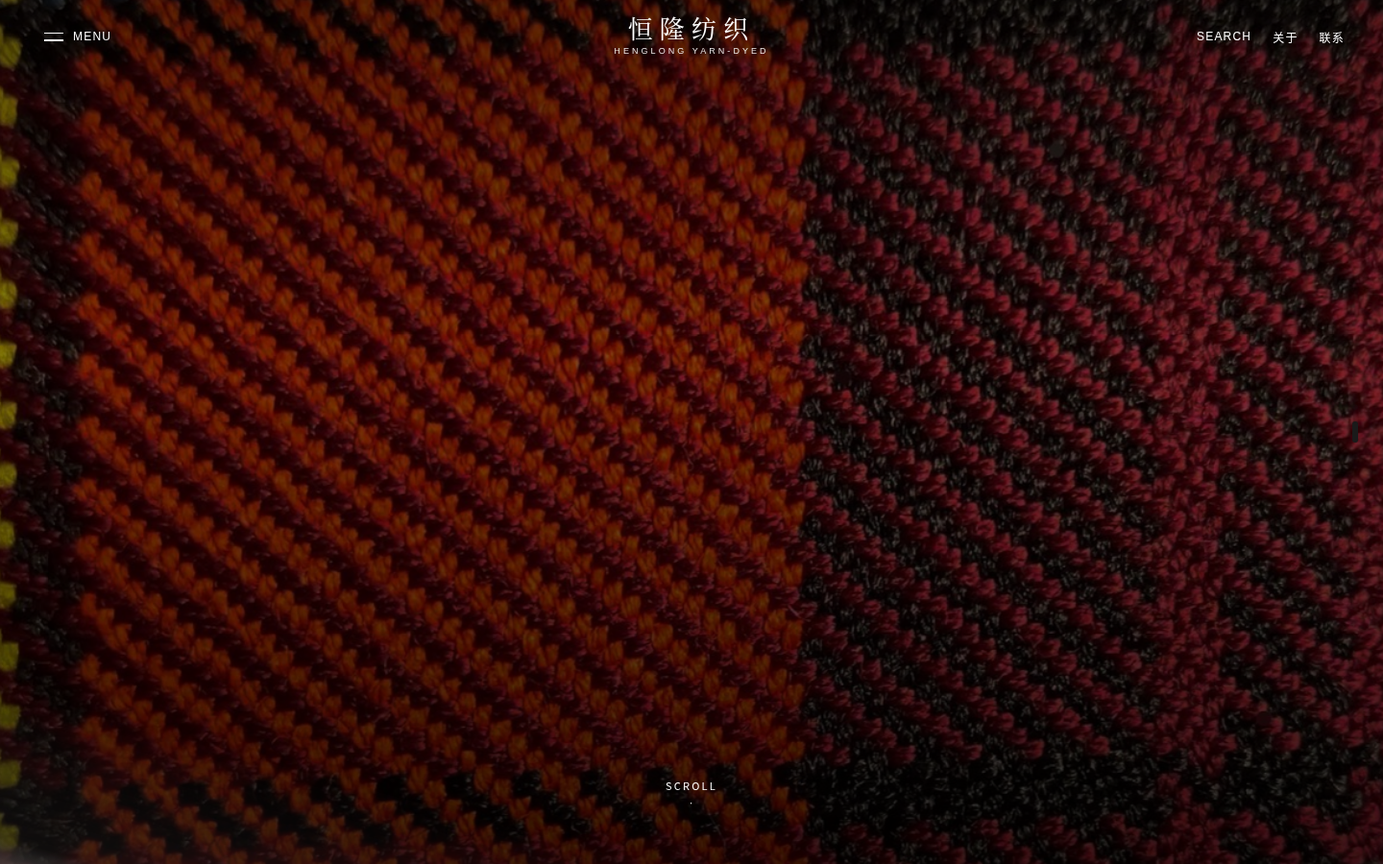
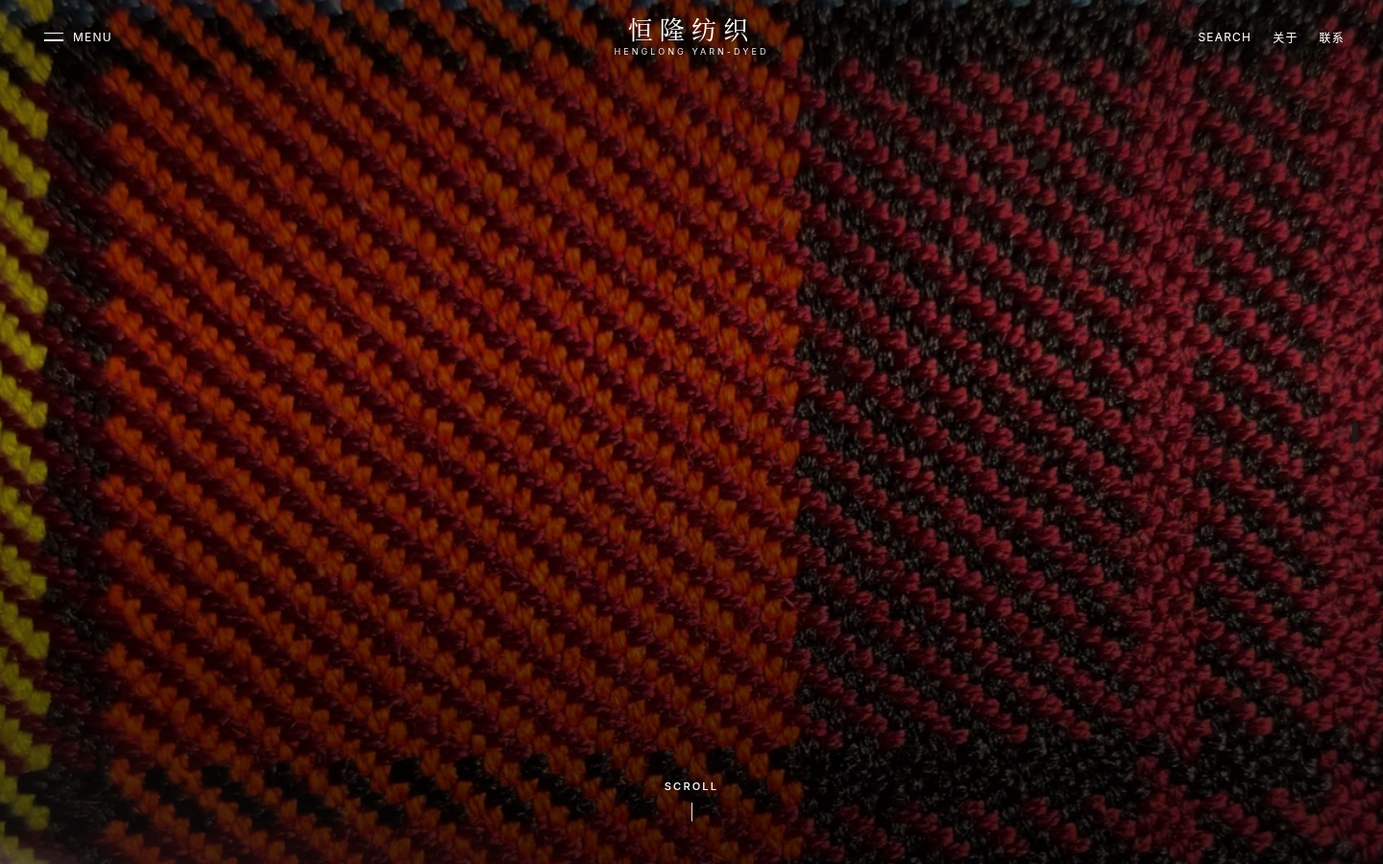
Polish home scroll-stage v27 vs Etro Textiles effect fidelity
Cross-reactive giant text-shadow, wider soft wipe feather, taller punch
corridor, softer spring ω≈1.3/0.95, 2800vh pin.

diff --git a/frame-cards.html b/frame-cards.html
@@ -3,8 +3,8 @@
 <meta charset="utf-8"/><meta name="viewport" content="width=device-width,initial-scale=1"/>
 <title>Stage frame · cards</title>
 <link href="https://fonts.googleapis.com/css2?family=Bodoni+Moda:opsz,wght@6..96,400;6..96,500&family=Inter:wght@300;400;500&display=swap" rel="stylesheet"/>
-<link rel="stylesheet" href="css/style.css?v=26"/>
-<link rel="stylesheet" href="css/effects.css?v=26"/>
+<link rel="stylesheet" href="css/style.css?v=27"/>
+<link rel="stylesheet" href="css/effects.css?v=27"/>
 <style>
   body{margin:0;overflow:hidden;background:#F4F2EF}
   .site-header{position:fixed}
@@ -23,12 +23,12 @@
   <div class="header-right"><a href="products.html">Search</a><a href="about.html">关于</a><a href="contact.html">联系</a></div>
 </header>
 
-<section class="stage" data-stage data-phase="2" style="--p0:1;--hp:1;--hp2:1;--hw:1;--hc:1;--fp:0.42;--sp:0.06;--gs:0.9;--hold:0;--pop:0;--cross:0.95;--scrub:0;--depth:0.44;--ps:0.57;--p:0.57">
+<section class="stage" data-stage data-phase="2" style="--p0:1;--hp:1;--hp2:1;--hw:1;--hc:1;--fp:0.4;--sp:0.04;--gs:0.91;--hold:0;--pop:0;--cross:0.96;--scrub:0;--depth:0.42;--ps:0.56;--p:0.56">
   <div class="stage-pin">
     <div class="stage-cream" aria-hidden="true"></div>
     <div class="stage-giant" aria-hidden="true"><span class="g1">探索</span><span class="g2">新面料</span></div>
     <div class="stage-veil" aria-hidden="true"></div>
-    <div class="stage-floats"><div class="track"><a class="float-card" data-row="0" href="products.html" style="--row:0;--mx:0px;--r:-30deg;--t:1vh;--d:0;--bob:12;--rowy:114.5;--lean:-23.2deg;--shx:16.7;--zi:52;--lift:28;--fs:1.18;--z:64px;--ry:-22deg;--rx:-9;--enter:1;--vis:1;--tilt:-12deg;--spin:0deg;--prox:0.76;--punch:0.62;opacity:1"><div class="fc-img"><img src="images/web/hl-01.jpg" alt="格伦格纹"/></div><div class="fc-label"><strong>格伦格纹</strong><span>色织条格</span></div></a><a class="float-card" data-row="1" href="products.html" style="--row:1;--mx:32px;--r:30deg;--t:60vh;--d:1;--bob:-10;--rowy:-122.6;--lean:25.3deg;--shx:-18.4;--zi:60;--lift:35;--fs:1.18;--z:82px;--ry:22deg;--rx:-11;--enter:1;--vis:1;--tilt:12deg;--spin:0deg;--prox:0.83;--punch:0.74;opacity:1"><div class="fc-img"><img src="images/web/hl-02.jpg" alt="苏格兰纹"/></div><div class="fc-label"><strong>苏格兰纹</strong><span>格纹色织</span></div></a><a class="float-card" data-row="0" href="products.html" style="--row:0;--mx:-22px;--r:-29deg;--t:5vh;--d:2;--bob:16;--rowy:130.8;--lean:-27.5deg;--shx:20.0;--zi:63;--lift:42;--fs:1.18;--z:100px;--ry:-22deg;--rx:-9;--enter:1;--vis:1;--tilt:-12deg;--spin:0deg;--prox:0.90;--punch:0.86;opacity:1"><div class="fc-img"><img src="images/web/hl-05.jpg" alt="衬衫条纹"/></div><div class="fc-label"><strong>衬衫条纹</strong><span>衬衫向</span></div></a><a class="float-card" data-row="1" href="products.html" style="--row:1;--mx:40px;--r:31deg;--t:58vh;--d:3;--bob:-8;--rowy:-114.5;--lean:23.2deg;--shx:-16.7;--zi:54;--lift:28;--fs:1.18;--z:64px;--ry:22deg;--rx:-11;--enter:1;--vis:1;--tilt:12deg;--spin:0deg;--prox:0.76;--punch:0.62;opacity:1"><div class="fc-img"><img src="images/web/mosaic-1.jpg" alt="多色格"/></div><div class="fc-label"><strong>多色格</strong><span>色织格纹</span></div></a><a class="float-card" data-row="0" href="products.html" style="--row:0;--mx:-14px;--r:-30deg;--t:4vh;--d:4;--bob:11;--rowy:122.6;--lean:-25.3deg;--shx:18.4;--zi:58;--lift:35;--fs:1.18;--z:82px;--ry:-22deg;--rx:-9;--enter:1;--vis:1;--tilt:-12deg;--spin:0deg;--prox:0.83;--punch:0.74;opacity:1"><div class="fc-img"><img src="images/web/hl-04.jpg" alt="岩灰素织"/></div><div class="fc-label"><strong>岩灰素织</strong><span>素色色织</span></div></a><a class="float-card" data-row="1" href="products.html" style="--row:1;--mx:46px;--r:29deg;--t:59vh;--d:5;--bob:-15;--rowy:-130.8;--lean:27.5deg;--shx:-20.0;--zi:65;--lift:42;--fs:1.18;--z:100px;--ry:22deg;--rx:-11;--enter:1;--vis:1;--tilt:12deg;--spin:0deg;--prox:0.90;--punch:0.86;opacity:1"><div class="fc-img"><img src="images/web/hl-07.jpg" alt="暖调格"/></div><div class="fc-label"><strong>暖调格</strong><span>家纺格调</span></div></a><a class="float-card" data-row="0" href="products.html" style="--row:0;--mx:-26px;--r:-30deg;--t:2vh;--d:6;--bob:9;--rowy:114.5;--lean:-23.2deg;--shx:16.7;--zi:52;--lift:28;--fs:1.18;--z:64px;--ry:-22deg;--rx:-9;--enter:1;--vis:1;--tilt:-12deg;--spin:0deg;--prox:0.76;--punch:0.62;opacity:1"><div class="fc-img"><img src="images/web/hl-06.jpg" alt="斜纹条格"/></div><div class="fc-label"><strong>斜纹条格</strong><span>斜纹组织</span></div></a><a class="float-card" data-row="1" href="products.html" style="--row:1;--mx:34px;--r:32deg;--t:62vh;--d:7;--bob:-13;--rowy:-122.6;--lean:25.3deg;--shx:-18.4;--zi:60;--lift:35;--fs:1.18;--z:82px;--ry:22deg;--rx:-11;--enter:1;--vis:1;--tilt:12deg;--spin:0deg;--prox:0.83;--punch:0.74;opacity:1"><div class="fc-img"><img src="images/web/hl-08.jpg" alt="来样肌理"/></div><div class="fc-label"><strong>来样肌理</strong><span>来样开发</span></div></a><a class="float-card" data-row="0" href="products.html" style="--row:0;--mx:-10px;--r:-30deg;--t:3vh;--d:8;--bob:14;--rowy:130.8;--lean:-27.5deg;--shx:20.0;--zi:63;--lift:42;--fs:1.18;--z:100px;--ry:-22deg;--rx:-9;--enter:1;--vis:1;--tilt:-12deg;--spin:0deg;--prox:0.90;--punch:0.86;opacity:1"><div class="fc-img"><img src="images/web/hl-03.jpg" alt="细密条格"/></div><div class="fc-label"><strong>细密条格</strong><span>色织细条</span></div></a><a class="float-card" data-row="1" href="products.html" style="--row:1;--mx:28px;--r:28deg;--t:61vh;--d:9;--bob:-9;--rowy:-114.5;--lean:23.2deg;--shx:-16.7;--zi:54;--lift:28;--fs:1.18;--z:64px;--ry:22deg;--rx:-11;--enter:1;--vis:1;--tilt:12deg;--spin:0deg;--prox:0.76;--punch:0.62;opacity:1"><div class="fc-img"><img src="images/web/stripes.jpg" alt="经典条纹"/></div><div class="fc-label"><strong>经典条纹</strong><span>衬衫条纹</span></div></a></div></div>
+    <div class="stage-floats"><div class="track"><a class="float-card" data-row="0" href="products.html" style="--row:0;--mx:0px;--r:-30deg;--t:1vh;--d:0;--bob:12;--rowy:120.1;--lean:-23.5deg;--shx:17.0;--zi:53;--lift:28;--fs:1.19;--z:66px;--ry:-22deg;--rx:-9;--enter:1;--vis:1;--tilt:-12deg;--spin:0deg;--prox:0.77;--punch:0.64;opacity:1"><div class="fc-img"><img src="images/web/hl-01.jpg" alt="格伦格纹"/></div><div class="fc-label"><strong>格伦格纹</strong><span>色织条格</span></div></a><a class="float-card" data-row="1" href="products.html" style="--row:1;--mx:32px;--r:30deg;--t:60vh;--d:1;--bob:-10;--rowy:-128.0;--lean:25.5deg;--shx:-18.5;--zi:60;--lift:35;--fs:1.19;--z:84px;--ry:22deg;--rx:-11;--enter:1;--vis:1;--tilt:12deg;--spin:0deg;--prox:0.84;--punch:0.75;opacity:1"><div class="fc-img"><img src="images/web/hl-02.jpg" alt="苏格兰纹"/></div><div class="fc-label"><strong>苏格兰纹</strong><span>格纹色织</span></div></a><a class="float-card" data-row="0" href="products.html" style="--row:0;--mx:-22px;--r:-29deg;--t:5vh;--d:2;--bob:16;--rowy:135.9;--lean:-27.5deg;--shx:20.0;--zi:63;--lift:42;--fs:1.19;--z:102px;--ry:-22deg;--rx:-9;--enter:1;--vis:1;--tilt:-12deg;--spin:0deg;--prox:0.91;--punch:0.86;opacity:1"><div class="fc-img"><img src="images/web/hl-05.jpg" alt="衬衫条纹"/></div><div class="fc-label"><strong>衬衫条纹</strong><span>衬衫向</span></div></a><a class="float-card" data-row="1" href="products.html" style="--row:1;--mx:40px;--r:31deg;--t:58vh;--d:3;--bob:-8;--rowy:-120.1;--lean:23.5deg;--shx:-17.0;--zi:55;--lift:28;--fs:1.19;--z:66px;--ry:22deg;--rx:-11;--enter:1;--vis:1;--tilt:12deg;--spin:0deg;--prox:0.77;--punch:0.64;opacity:1"><div class="fc-img"><img src="images/web/mosaic-1.jpg" alt="多色格"/></div><div class="fc-label"><strong>多色格</strong><span>色织格纹</span></div></a><a class="float-card" data-row="0" href="products.html" style="--row:0;--mx:-14px;--r:-30deg;--t:4vh;--d:4;--bob:11;--rowy:128.0;--lean:-25.5deg;--shx:18.5;--zi:58;--lift:35;--fs:1.19;--z:84px;--ry:-22deg;--rx:-9;--enter:1;--vis:1;--tilt:-12deg;--spin:0deg;--prox:0.84;--punch:0.75;opacity:1"><div class="fc-img"><img src="images/web/hl-04.jpg" alt="岩灰素织"/></div><div class="fc-label"><strong>岩灰素织</strong><span>素色色织</span></div></a><a class="float-card" data-row="1" href="products.html" style="--row:1;--mx:46px;--r:29deg;--t:59vh;--d:5;--bob:-15;--rowy:-135.9;--lean:27.5deg;--shx:-20.0;--zi:65;--lift:42;--fs:1.19;--z:102px;--ry:22deg;--rx:-11;--enter:1;--vis:1;--tilt:12deg;--spin:0deg;--prox:0.91;--punch:0.86;opacity:1"><div class="fc-img"><img src="images/web/hl-07.jpg" alt="暖调格"/></div><div class="fc-label"><strong>暖调格</strong><span>家纺格调</span></div></a><a class="float-card" data-row="0" href="products.html" style="--row:0;--mx:-26px;--r:-30deg;--t:2vh;--d:6;--bob:9;--rowy:120.1;--lean:-23.5deg;--shx:17.0;--zi:53;--lift:28;--fs:1.19;--z:66px;--ry:-22deg;--rx:-9;--enter:1;--vis:1;--tilt:-12deg;--spin:0deg;--prox:0.77;--punch:0.64;opacity:1"><div class="fc-img"><img src="images/web/hl-06.jpg" alt="斜纹条格"/></div><div class="fc-label"><strong>斜纹条格</strong><span>斜纹组织</span></div></a><a class="float-card" data-row="1" href="products.html" style="--row:1;--mx:34px;--r:32deg;--t:62vh;--d:7;--bob:-13;--rowy:-128.0;--lean:25.5deg;--shx:-18.5;--zi:60;--lift:35;--fs:1.19;--z:84px;--ry:22deg;--rx:-11;--enter:1;--vis:1;--tilt:12deg;--spin:0deg;--prox:0.84;--punch:0.75;opacity:1"><div class="fc-img"><img src="images/web/hl-08.jpg" alt="来样肌理"/></div><div class="fc-label"><strong>来样肌理</strong><span>来样开发</span></div></a><a class="float-card" data-row="0" href="products.html" style="--row:0;--mx:-10px;--r:-30deg;--t:3vh;--d:8;--bob:14;--rowy:135.9;--lean:-27.5deg;--shx:20.0;--zi:63;--lift:42;--fs:1.19;--z:102px;--ry:-22deg;--rx:-9;--enter:1;--vis:1;--tilt:-12deg;--spin:0deg;--prox:0.91;--punch:0.86;opacity:1"><div class="fc-img"><img src="images/web/hl-03.jpg" alt="细密条格"/></div><div class="fc-label"><strong>细密条格</strong><span>色织细条</span></div></a><a class="float-card" data-row="1" href="products.html" style="--row:1;--mx:28px;--r:28deg;--t:61vh;--d:9;--bob:-9;--rowy:-120.1;--lean:23.5deg;--shx:-17.0;--zi:55;--lift:28;--fs:1.19;--z:66px;--ry:22deg;--rx:-11;--enter:1;--vis:1;--tilt:12deg;--spin:0deg;--prox:0.77;--punch:0.64;opacity:1"><div class="fc-img"><img src="images/web/stripes.jpg" alt="经典条纹"/></div><div class="fc-label"><strong>经典条纹</strong><span>衬衫条纹</span></div></a></div></div>
     <div class="stage-hero" style="opacity:0;pointer-events:none"></div>
     <div class="stage-progress"><i></i><i></i><i></i></div>
   </div>
@@ -36,7 +36,7 @@
 <script>
   const track=document.querySelector('.track');
   const dist=Math.max(track.scrollWidth-innerWidth*0.05,1);
-  track.style.transform='translate3d('+(-0.42*dist)+'px,0,0)';
+  track.style.transform='translate3d('+(-0.4*dist)+'px,0,0)';
   document.documentElement.dataset.shotReady='1';
 </script>
 </body></html>

diff --git a/frame-peek.html b/frame-peek.html
@@ -3,8 +3,8 @@
 <meta charset="utf-8"/><meta name="viewport" content="width=device-width,initial-scale=1"/>
 <title>Stage frame · peek</title>
 <link href="https://fonts.googleapis.com/css2?family=Bodoni+Moda:opsz,wght@6..96,400;6..96,500&family=Inter:wght@300;400;500&display=swap" rel="stylesheet"/>
-<link rel="stylesheet" href="css/style.css?v=26"/>
-<link rel="stylesheet" href="css/effects.css?v=26"/>
+<link rel="stylesheet" href="css/style.css?v=27"/>
+<link rel="stylesheet" href="css/effects.css?v=27"/>
 <style>
   body{margin:0;overflow:hidden;background:#F4F2EF}
   .site-header{position:fixed}
@@ -23,12 +23,12 @@
   <div class="header-right"><a href="products.html">Search</a><a href="about.html">关于</a><a href="contact.html">联系</a></div>
 </header>
 
-<section class="stage" data-stage data-phase="2" style="--p0:1;--hp:1;--hp2:1;--hw:1;--hc:1;--fp:0.16;--sp:0;--gs:0.96;--hold:0.35;--pop:0.12;--cross:0.4;--scrub:0;--depth:0.16;--ps:0.58;--p:0.58">
+<section class="stage" data-stage data-phase="2" style="--p0:1;--hp:1;--hp2:1;--hw:1;--hc:1;--fp:0.15;--sp:0;--gs:0.96;--hold:0.38;--pop:0.14;--cross:0.38;--scrub:0;--depth:0.15;--ps:0.59;--p:0.59">
   <div class="stage-pin">
     <div class="stage-cream" aria-hidden="true"></div>
     <div class="stage-giant" aria-hidden="true"><span class="g1">探索</span><span class="g2">新面料</span></div>
     <div class="stage-veil" aria-hidden="true"></div>
-    <div class="stage-floats"><div class="track"><a class="float-card" data-row="0" href="products.html" style="--row:0;--mx:0px;--r:-30deg;--t:1vh;--d:0;--bob:12;--rowy:89.5;--lean:-23.2deg;--shx:16.7;--zi:52;--lift:28;--fs:1.18;--z:64px;--ry:-22deg;--rx:-9;--enter:1;--vis:1;--tilt:-12deg;--spin:0deg;--prox:0.76;--punch:0.62;opacity:1"><div class="fc-img"><img src="images/web/hl-01.jpg" alt="格伦格纹"/></div><div class="fc-label"><strong>格伦格纹</strong><span>色织条格</span></div></a><a class="float-card" data-row="1" href="products.html" style="--row:1;--mx:32px;--r:30deg;--t:60vh;--d:1;--bob:-10;--rowy:-97.7;--lean:25.3deg;--shx:-18.4;--zi:60;--lift:35;--fs:1.18;--z:82px;--ry:22deg;--rx:-11;--enter:1;--vis:1;--tilt:12deg;--spin:0deg;--prox:0.83;--punch:0.74;opacity:1"><div class="fc-img"><img src="images/web/hl-02.jpg" alt="苏格兰纹"/></div><div class="fc-label"><strong>苏格兰纹</strong><span>格纹色织</span></div></a><a class="float-card" data-row="0" href="products.html" style="--row:0;--mx:-22px;--r:-29deg;--t:5vh;--d:2;--bob:16;--rowy:105.8;--lean:-27.5deg;--shx:20.0;--zi:63;--lift:42;--fs:1.18;--z:100px;--ry:-22deg;--rx:-9;--enter:1;--vis:1;--tilt:-12deg;--spin:0deg;--prox:0.90;--punch:0.86;opacity:1"><div class="fc-img"><img src="images/web/hl-05.jpg" alt="衬衫条纹"/></div><div class="fc-label"><strong>衬衫条纹</strong><span>衬衫向</span></div></a><a class="float-card" data-row="1" href="products.html" style="--row:1;--mx:40px;--r:31deg;--t:58vh;--d:3;--bob:-8;--rowy:-89.5;--lean:23.2deg;--shx:-16.7;--zi:54;--lift:28;--fs:1.18;--z:64px;--ry:22deg;--rx:-11;--enter:1;--vis:1;--tilt:12deg;--spin:0deg;--prox:0.76;--punch:0.62;opacity:1"><div class="fc-img"><img src="images/web/mosaic-1.jpg" alt="多色格"/></div><div class="fc-label"><strong>多色格</strong><span>色织格纹</span></div></a><a class="float-card" data-row="0" href="products.html" style="--row:0;--mx:-14px;--r:-30deg;--t:4vh;--d:4;--bob:11;--rowy:97.7;--lean:-25.3deg;--shx:18.4;--zi:58;--lift:35;--fs:1.18;--z:82px;--ry:-22deg;--rx:-9;--enter:1;--vis:1;--tilt:-12deg;--spin:0deg;--prox:0.83;--punch:0.74;opacity:1"><div class="fc-img"><img src="images/web/hl-04.jpg" alt="岩灰素织"/></div><div class="fc-label"><strong>岩灰素织</strong><span>素色色织</span></div></a><a class="float-card" data-row="1" href="products.html" style="--row:1;--mx:46px;--r:29deg;--t:59vh;--d:5;--bob:-15;--rowy:-105.8;--lean:27.5deg;--shx:-20.0;--zi:65;--lift:42;--fs:1.18;--z:100px;--ry:22deg;--rx:-11;--enter:1;--vis:1;--tilt:12deg;--spin:0deg;--prox:0.90;--punch:0.86;opacity:1"><div class="fc-img"><img src="images/web/hl-07.jpg" alt="暖调格"/></div><div class="fc-label"><strong>暖调格</strong><span>家纺格调</span></div></a><a class="float-card" data-row="0" href="products.html" style="--row:0;--mx:-26px;--r:-30deg;--t:2vh;--d:6;--bob:9;--rowy:89.5;--lean:-23.2deg;--shx:16.7;--zi:52;--lift:28;--fs:1.18;--z:64px;--ry:-22deg;--rx:-9;--enter:1;--vis:1;--tilt:-12deg;--spin:0deg;--prox:0.76;--punch:0.62;opacity:1"><div class="fc-img"><img src="images/web/hl-06.jpg" alt="斜纹条格"/></div><div class="fc-label"><strong>斜纹条格</strong><span>斜纹组织</span></div></a><a class="float-card" data-row="1" href="products.html" style="--row:1;--mx:34px;--r:32deg;--t:62vh;--d:7;--bob:-13;--rowy:-97.7;--lean:25.3deg;--shx:-18.4;--zi:60;--lift:35;--fs:1.18;--z:82px;--ry:22deg;--rx:-11;--enter:1;--vis:1;--tilt:12deg;--spin:0deg;--prox:0.83;--punch:0.74;opacity:1"><div class="fc-img"><img src="images/web/hl-08.jpg" alt="来样肌理"/></div><div class="fc-label"><strong>来样肌理</strong><span>来样开发</span></div></a><a class="float-card" data-row="0" href="products.html" style="--row:0;--mx:-10px;--r:-30deg;--t:3vh;--d:8;--bob:14;--rowy:105.8;--lean:-27.5deg;--shx:20.0;--zi:63;--lift:42;--fs:1.18;--z:100px;--ry:-22deg;--rx:-9;--enter:1;--vis:1;--tilt:-12deg;--spin:0deg;--prox:0.90;--punch:0.86;opacity:1"><div class="fc-img"><img src="images/web/hl-03.jpg" alt="细密条格"/></div><div class="fc-label"><strong>细密条格</strong><span>色织细条</span></div></a><a class="float-card" data-row="1" href="products.html" style="--row:1;--mx:28px;--r:28deg;--t:61vh;--d:9;--bob:-9;--rowy:-89.5;--lean:23.2deg;--shx:-16.7;--zi:54;--lift:28;--fs:1.18;--z:64px;--ry:22deg;--rx:-11;--enter:1;--vis:1;--tilt:12deg;--spin:0deg;--prox:0.76;--punch:0.62;opacity:1"><div class="fc-img"><img src="images/web/stripes.jpg" alt="经典条纹"/></div><div class="fc-label"><strong>经典条纹</strong><span>衬衫条纹</span></div></a></div></div>
+    <div class="stage-floats"><div class="track"><a class="float-card" data-row="0" href="products.html" style="--row:0;--mx:0px;--r:-30deg;--t:1vh;--d:0;--bob:12;--rowy:95.1;--lean:-23.5deg;--shx:17.0;--zi:53;--lift:28;--fs:1.19;--z:66px;--ry:-22deg;--rx:-9;--enter:1;--vis:1;--tilt:-12deg;--spin:0deg;--prox:0.77;--punch:0.64;opacity:1"><div class="fc-img"><img src="images/web/hl-01.jpg" alt="格伦格纹"/></div><div class="fc-label"><strong>格伦格纹</strong><span>色织条格</span></div></a><a class="float-card" data-row="1" href="products.html" style="--row:1;--mx:32px;--r:30deg;--t:60vh;--d:1;--bob:-10;--rowy:-103.0;--lean:25.5deg;--shx:-18.5;--zi:60;--lift:35;--fs:1.19;--z:84px;--ry:22deg;--rx:-11;--enter:1;--vis:1;--tilt:12deg;--spin:0deg;--prox:0.84;--punch:0.75;opacity:1"><div class="fc-img"><img src="images/web/hl-02.jpg" alt="苏格兰纹"/></div><div class="fc-label"><strong>苏格兰纹</strong><span>格纹色织</span></div></a><a class="float-card" data-row="0" href="products.html" style="--row:0;--mx:-22px;--r:-29deg;--t:5vh;--d:2;--bob:16;--rowy:110.9;--lean:-27.5deg;--shx:20.0;--zi:63;--lift:42;--fs:1.19;--z:102px;--ry:-22deg;--rx:-9;--enter:1;--vis:1;--tilt:-12deg;--spin:0deg;--prox:0.91;--punch:0.86;opacity:1"><div class="fc-img"><img src="images/web/hl-05.jpg" alt="衬衫条纹"/></div><div class="fc-label"><strong>衬衫条纹</strong><span>衬衫向</span></div></a><a class="float-card" data-row="1" href="products.html" style="--row:1;--mx:40px;--r:31deg;--t:58vh;--d:3;--bob:-8;--rowy:-95.1;--lean:23.5deg;--shx:-17.0;--zi:55;--lift:28;--fs:1.19;--z:66px;--ry:22deg;--rx:-11;--enter:1;--vis:1;--tilt:12deg;--spin:0deg;--prox:0.77;--punch:0.64;opacity:1"><div class="fc-img"><img src="images/web/mosaic-1.jpg" alt="多色格"/></div><div class="fc-label"><strong>多色格</strong><span>色织格纹</span></div></a><a class="float-card" data-row="0" href="products.html" style="--row:0;--mx:-14px;--r:-30deg;--t:4vh;--d:4;--bob:11;--rowy:103.0;--lean:-25.5deg;--shx:18.5;--zi:58;--lift:35;--fs:1.19;--z:84px;--ry:-22deg;--rx:-9;--enter:1;--vis:1;--tilt:-12deg;--spin:0deg;--prox:0.84;--punch:0.75;opacity:1"><div class="fc-img"><img src="images/web/hl-04.jpg" alt="岩灰素织"/></div><div class="fc-label"><strong>岩灰素织</strong><span>素色色织</span></div></a><a class="float-card" data-row="1" href="products.html" style="--row:1;--mx:46px;--r:29deg;--t:59vh;--d:5;--bob:-15;--rowy:-110.9;--lean:27.5deg;--shx:-20.0;--zi:65;--lift:42;--fs:1.19;--z:102px;--ry:22deg;--rx:-11;--enter:1;--vis:1;--tilt:12deg;--spin:0deg;--prox:0.91;--punch:0.86;opacity:1"><div class="fc-img"><img src="images/web/hl-07.jpg" alt="暖调格"/></div><div class="fc-label"><strong>暖调格</strong><span>家纺格调</span></div></a><a class="float-card" data-row="0" href="products.html" style="--row:0;--mx:-26px;--r:-30deg;--t:2vh;--d:6;--bob:9;--rowy:95.1;--lean:-23.5deg;--shx:17.0;--zi:53;--lift:28;--fs:1.19;--z:66px;--ry:-22deg;--rx:-9;--enter:1;--vis:1;--tilt:-12deg;--spin:0deg;--prox:0.77;--punch:0.64;opacity:1"><div class="fc-img"><img src="images/web/hl-06.jpg" alt="斜纹条格"/></div><div class="fc-label"><strong>斜纹条格</strong><span>斜纹组织</span></div></a><a class="float-card" data-row="1" href="products.html" style="--row:1;--mx:34px;--r:32deg;--t:62vh;--d:7;--bob:-13;--rowy:-103.0;--lean:25.5deg;--shx:-18.5;--zi:60;--lift:35;--fs:1.19;--z:84px;--ry:22deg;--rx:-11;--enter:1;--vis:1;--tilt:12deg;--spin:0deg;--prox:0.84;--punch:0.75;opacity:1"><div class="fc-img"><img src="images/web/hl-08.jpg" alt="来样肌理"/></div><div class="fc-label"><strong>来样肌理</strong><span>来样开发</span></div></a><a class="float-card" data-row="0" href="products.html" style="--row:0;--mx:-10px;--r:-30deg;--t:3vh;--d:8;--bob:14;--rowy:110.9;--lean:-27.5deg;--shx:20.0;--zi:63;--lift:42;--fs:1.19;--z:102px;--ry:-22deg;--rx:-9;--enter:1;--vis:1;--tilt:-12deg;--spin:0deg;--prox:0.91;--punch:0.86;opacity:1"><div class="fc-img"><img src="images/web/hl-03.jpg" alt="细密条格"/></div><div class="fc-label"><strong>细密条格</strong><span>色织细条</span></div></a><a class="float-card" data-row="1" href="products.html" style="--row:1;--mx:28px;--r:28deg;--t:61vh;--d:9;--bob:-9;--rowy:-95.1;--lean:23.5deg;--shx:-17.0;--zi:55;--lift:28;--fs:1.19;--z:66px;--ry:22deg;--rx:-11;--enter:1;--vis:1;--tilt:12deg;--spin:0deg;--prox:0.77;--punch:0.64;opacity:1"><div class="fc-img"><img src="images/web/stripes.jpg" alt="经典条纹"/></div><div class="fc-label"><strong>经典条纹</strong><span>衬衫条纹</span></div></a></div></div>
     <div class="stage-hero" style="opacity:0;pointer-events:none"></div>
     <div class="stage-progress"><i></i><i></i><i></i></div>
   </div>
@@ -36,7 +36,7 @@
 <script>
   const track=document.querySelector('.track');
   const dist=Math.max(track.scrollWidth-innerWidth*0.05,1);
-  track.style.transform='translate3d('+(-0.16*dist)+'px,0,0)';
+  track.style.transform='translate3d('+(-0.15*dist)+'px,0,0)';
   document.documentElement.dataset.shotReady='1';
 </script>
 </body></html>

diff --git a/js/effects.js b/js/effects.js
@@ -61,9 +61,9 @@
 
   /* Progress map (of stage scroll 0..1):
      0–0.04  hero settle (p0)
-     0.02–0.29 soft wipe (--hw/--hc) + giant rise (hp); g2 lags
-     0.29–0.58 type hold / breath / pop settle
-     0.55–1.0  cards scrub; type split lags via sp
+     0.02–0.30 soft wipe (--hw/--hc) + giant rise (hp); g2 lags
+     0.30–0.60 type hold / breath / pop settle
+     0.56–1.0  cards scrub; type split lags via sp
   */
   function targets(){
     const y=scrollY,vh=innerHeight;
@@ -71,14 +71,14 @@
     if(stage && !reduce){
       const top=stage.offsetTop,len=Math.max(1,stage.offsetHeight-vh);
       p=clamp((y-top)/len);
-      p0=easeOut(clamp(p/0.016));
-      hp=easeInOut(clamp((p-0.005)/0.28));
+      p0=easeOut(clamp(p/0.015));
+      hp=easeInOut(clamp((p-0.004)/0.29));
       /* longer hold; crawl then glide; type split waits for denser cross */
-      const raw=clamp((p-0.55)/0.45);
-      fp=Math.pow(easeInOut(raw), 0.64);
-      sp=Math.pow(clamp((fp-0.44)/0.56), 1.6);
-      gs=1-fp*0.24;
-      phase=p<0.03?'0':(p<0.58?'1':'2');
+      const raw=clamp((p-0.56)/0.44);
+      fp=Math.pow(easeInOut(raw), 0.62);
+      sp=Math.pow(clamp((fp-0.46)/0.54), 1.62);
+      gs=1-fp*0.23;
+      phase=p<0.03?'0':(p<0.60?'1':'2');
       onHero=hp<0.56;
     }
     return {y,vh,p0,hp,fp,sp,gs,phase,onHero,p};
@@ -103,28 +103,28 @@
       const speed=Math.min(2.8, Math.abs(dy)/16);
       vel=lerp(vel,speed,hard?1:expAlpha(5.8,dt));
       spin=lerp(spin, Math.max(-1.7, Math.min(1.7, dy/30)), hard?1:expAlpha(4.2,dt));
-      coast=hard?0:lerp(coast + dy*0.0005, 0, expAlpha(0.62,dt));
-      const boost=1+vel*0.15;
-      const look=hard?0:Math.max(-0.12, Math.min(0.12, (dy/400)*0.065));
-      smooth.p0=lerp(smooth.p0,t.p0,hard?1:expAlpha(4.9*boost,dt));
+      coast=hard?0:lerp(coast + dy*0.00055, 0, expAlpha(0.55,dt));
+      const boost=1+vel*0.14;
+      const look=hard?0:Math.max(-0.13, Math.min(0.13, (dy/380)*0.07));
+      smooth.p0=lerp(smooth.p0,t.p0,hard?1:expAlpha(4.6*boost,dt));
       /* dual-stage wipe; --hw leads type; --hc lags for layered cream */
-      smooth.hpMid=lerp(smooth.hpMid,t.hp,hard?1:expAlpha(3.5*boost,dt));
-      smooth.hp=lerp(smooth.hp,smooth.hpMid,hard?1:expAlpha(2.6*boost,dt));
-      smooth.hw=lerp(smooth.hw, clamp(t.hp*1.04), hard?1:expAlpha(3.9*boost,dt));
-      smooth.hc=lerp(smooth.hc, smooth.hw*0.94, hard?1:expAlpha(2.4*boost,dt));
+      smooth.hpMid=lerp(smooth.hpMid,t.hp,hard?1:expAlpha(3.3*boost,dt));
+      smooth.hp=lerp(smooth.hp,smooth.hpMid,hard?1:expAlpha(2.45*boost,dt));
+      smooth.hw=lerp(smooth.hw, clamp(t.hp*1.035), hard?1:expAlpha(3.7*boost,dt));
+      smooth.hc=lerp(smooth.hc, smooth.hw*0.93, hard?1:expAlpha(2.2*boost,dt));
       /* second line lags first for staggered reveal */
-      smooth.hp2=lerp(smooth.hp2, clamp((t.hp-0.28)/0.72), hard?1:expAlpha(1.9*boost,dt));
+      smooth.hp2=lerp(smooth.hp2, clamp((t.hp-0.3)/0.7), hard?1:expAlpha(1.75*boost,dt));
       /* look-ahead creamier spring scrub (softer ω) + display lerp */
       if(hard){spring.fp=t.fp;spring.v=0;spring.sp=t.sp;spring.sv=0;smooth.fpVis=t.fp;smooth.hc=t.hp;}
       else{
-        const s1=springStep(spring.fp, spring.v, clamp(t.fp + coast + look), dt, 1.4*boost);
+        const s1=springStep(spring.fp, spring.v, clamp(t.fp + coast + look), dt, 1.3*boost);
         spring.fp=s1.x; spring.v=s1.v;
-        const s2=springStep(spring.sp, spring.sv, t.sp, dt, 1.05*boost);
+        const s2=springStep(spring.sp, spring.sv, t.sp, dt, 0.95*boost);
         spring.sp=s2.x; spring.sv=s2.v;
       }
       smooth.fp=spring.fp;
       smooth.sp=spring.sp;
-      smooth.fpVis=hard?spring.fp:lerp(smooth.fpVis, spring.fp, expAlpha(4.4*boost,dt));
+      smooth.fpVis=hard?spring.fp:lerp(smooth.fpVis, spring.fp, expAlpha(4.0*boost,dt));
       smooth.gs=lerp(smooth.gs,t.gs,hard?1:expAlpha(4.4,dt));
       smooth.ps=lerp(smooth.ps,t.p||0,hard?1:expAlpha(3.8*boost,dt));
       const impulse=hard?0:Math.max(-0.028, Math.min(0.028, dy/1200));
@@ -189,7 +189,7 @@
           const shx=((row?1:-1)*-(8 + punch*14)).toFixed(1);
           /* high/low corridor opens as scrub progresses — type peeks mid-band */
           const rowDir=row?1:-1;
-          const rowy=rowDir*(32 + fpV*96 + punch*68)*-1;
+          const rowy=rowDir*(34 + fpV*100 + punch*72)*-1;
           c.style.setProperty('--lean',lean);
           c.style.setProperty('--shx',shx);
           c.style.setProperty('--zi', Math.round(10+prox*40+punch*20+(row?2:0)).toString());
@@ -256,7 +256,7 @@
   function goShot(name){
     if(!stage||reduce)return;
     const top=stage.offsetTop,len=Math.max(1,stage.offsetHeight-innerHeight);
-    const map={hero:0.02,wipe:0.32,midwipe:0.14,peek:0.58,stage1:0.32,cards:0.57,stage2:0.57,stage0:0.02,stage3:0.94};
+    const map={hero:0.02,wipe:0.33,midwipe:0.15,peek:0.59,stage1:0.33,cards:0.56,stage2:0.56,stage0:0.02,stage3:0.94};
     const p=map[name];
     if(p==null)return;
     scrollTo(0, top+len*p);

diff --git a/css/effects.css b/css/effects.css
@@ -5,7 +5,7 @@ html{scroll-behavior:auto}
 .site-header.on-hero .wordmark small{opacity:.9}
 
 /* ---- pinned lookbook stage ---- */
-.stage{position:relative;height:2680vh;background:#F4F2EF;overscroll-behavior:contain}
+.stage{position:relative;height:2800vh;background:#F4F2EF;overscroll-behavior:contain}
 .stage-pin{
   position:sticky;top:0;
   height:100vh;height:100dvh;height:100svh;height:100lvh;
@@ -26,22 +26,22 @@ html{scroll-behavior:auto}
   position:absolute;inset:0;z-index:4;overflow:hidden;will-change:transform,mask-image,opacity;
   /* soft curtain wipe — --hw peels slightly ahead of type (--hp) */
   -webkit-mask-image:linear-gradient(
-    195deg,
+    196deg,
     #000 0%,
-    #000 calc((1 - var(--hw,var(--hp,0))) * 100% - 20vh),
-    rgba(0,0,0,.95) calc((1 - var(--hw,var(--hp,0))) * 100% - 3vh),
-    rgba(0,0,0,.45) calc((1 - var(--hw,var(--hp,0))) * 100% + 6vh),
-    rgba(0,0,0,.12) calc((1 - var(--hw,var(--hp,0))) * 100% + 12vh),
-    transparent calc((1 - var(--hw,var(--hp,0))) * 100% + 18vh)
+    #000 calc((1 - var(--hw,var(--hp,0))) * 100% - 22vh),
+    rgba(0,0,0,.96) calc((1 - var(--hw,var(--hp,0))) * 100% - 3.5vh),
+    rgba(0,0,0,.5) calc((1 - var(--hw,var(--hp,0))) * 100% + 7vh),
+    rgba(0,0,0,.14) calc((1 - var(--hw,var(--hp,0))) * 100% + 14vh),
+    transparent calc((1 - var(--hw,var(--hp,0))) * 100% + 20vh)
   );
   mask-image:linear-gradient(
-    195deg,
+    196deg,
     #000 0%,
-    #000 calc((1 - var(--hw,var(--hp,0))) * 100% - 20vh),
-    rgba(0,0,0,.95) calc((1 - var(--hw,var(--hp,0))) * 100% - 3vh),
-    rgba(0,0,0,.45) calc((1 - var(--hw,var(--hp,0))) * 100% + 6vh),
-    rgba(0,0,0,.12) calc((1 - var(--hw,var(--hp,0))) * 100% + 12vh),
-    transparent calc((1 - var(--hw,var(--hp,0))) * 100% + 18vh)
+    #000 calc((1 - var(--hw,var(--hp,0))) * 100% - 22vh),
+    rgba(0,0,0,.96) calc((1 - var(--hw,var(--hp,0))) * 100% - 3.5vh),
+    rgba(0,0,0,.5) calc((1 - var(--hw,var(--hp,0))) * 100% + 7vh),
+    rgba(0,0,0,.14) calc((1 - var(--hw,var(--hp,0))) * 100% + 14vh),
+    transparent calc((1 - var(--hw,var(--hp,0))) * 100% + 20vh)
   );
   transform:translate3d(calc(var(--hw,var(--hp,0))*-2.6vw),calc(var(--hw,var(--hp,0))*-34vh),0) scale(calc(1 - var(--hw,var(--hp,0))*.13)) rotate(calc(var(--hw,var(--hp,0))*-0.4deg));
   opacity:calc(1 - var(--hw,var(--hp,0))*0.36);
@@ -117,15 +117,16 @@ html{scroll-behavior:auto}
 /* giant type behind floats — fully revealed after wipe */
 .stage-giant{
   position:absolute;inset:0;z-index:1;display:flex;flex-direction:column;align-items:center;justify-content:center;
-  font-family:"Bodoni Moda",serif;color:#060606;line-height:.485;
-  letter-spacing:calc(-.096em + var(--sp,0)*.15em + var(--hold,0)*.06em + var(--cross,0)*.075em);
-  font-size:calc(38.5vw * var(--gs,1));
-  transform:perspective(860px) rotateX(calc(var(--depth,0)*-6.8deg)) translate3d(0,calc((1 - var(--hp,0))*84vh + var(--fp,0)*-1.4vh),0) scale(calc(.43 + var(--hp,0)*.57 + var(--hold,0)*.14 + var(--pop,0)*.16 + var(--cross,0)*.035));
+  font-family:"Bodoni Moda",serif;color:#050505;line-height:.48;
+  letter-spacing:calc(-.098em + var(--sp,0)*.155em + var(--hold,0)*.065em + var(--cross,0)*.08em);
+  font-size:calc(39vw * var(--gs,1));
+  transform:perspective(840px) rotateX(calc(var(--depth,0)*-7.2deg)) translate3d(0,calc((1 - var(--hp,0))*86vh + var(--fp,0)*-1.5vh),0) scale(calc(.42 + var(--hp,0)*.58 + var(--hold,0)*.15 + var(--pop,0)*.17 + var(--cross,0)*.04));
   /* rise opacity faster mid-wipe so type reads under peeling hero */
-  opacity:min(1, calc(var(--hp,0) * 2.15 - var(--fp,0)*.05));
+  opacity:min(1, calc(var(--hp,0) * 2.2 - var(--fp,0)*.05));
   user-select:none;pointer-events:none;text-align:center;
+  text-shadow:0 calc(2px + var(--cross,0)*10px) calc(18px + var(--depth,0)*24px) rgba(0,0,0,calc(.04 + var(--cross,0)*.1));
   /* quartic snap — clears even earlier midwipe */
-  filter:contrast(1.32) blur(calc((1 - var(--hp,0)) * (1 - var(--hp,0)) * (1 - var(--hp,0)) * (1 - var(--hp,0)) * 26px));
+  filter:contrast(1.34) blur(calc((1 - var(--hp,0)) * (1 - var(--hp,0)) * (1 - var(--hp,0)) * (1 - var(--hp,0)) * 26px));
   will-change:transform,opacity,letter-spacing,filter;
   transform-style:preserve-3d;
 }
@@ -154,7 +155,7 @@ html{scroll-behavior:auto}
 }
 .stage-floats .track{
   position:absolute;top:0;left:0;height:100%;display:flex;align-items:flex-start;
-  gap:clamp(26px,3.8vw,66px);padding-left:66vw;padding-right:76vw;will-change:transform,filter;
+  gap:clamp(24px,3.6vw,62px);padding-left:64vw;padding-right:74vw;will-change:transform,filter;
   transform-style:preserve-3d;
   filter:blur(calc(var(--scrub,0)*1.35px));
 }
@@ -273,7 +274,7 @@ html{scroll-behavior:auto}
   .stage-giant,.stage-floats{display:none}
 }
 @media (max-width:760px){
-  .stage{height:2180vh}
+  .stage{height:2280vh}
   .float-card{width:74vw}
   .stage-giant{font-size:34vw}
   .stage-floats{-webkit-mask-image:none;mask-image:none}

diff --git a/frame-midwipe.html b/frame-midwipe.html
@@ -3,8 +3,8 @@
 <meta charset="utf-8"/><meta name="viewport" content="width=device-width,initial-scale=1"/>
 <title>Stage frame · midwipe</title>
 <link href="https://fonts.googleapis.com/css2?family=Bodoni+Moda:opsz,wght@6..96,400;6..96,500&family=Inter:wght@300;400;500&display=swap" rel="stylesheet"/>
-<link rel="stylesheet" href="css/style.css?v=26"/>
-<link rel="stylesheet" href="css/effects.css?v=26"/>
+<link rel="stylesheet" href="css/style.css?v=27"/>
+<link rel="stylesheet" href="css/effects.css?v=27"/>
 <style>
   body{margin:0;overflow:hidden;background:#F4F2EF}
   .site-header{position:fixed}
@@ -23,7 +23,7 @@
   <div class="header-right"><a href="products.html">Search</a><a href="about.html">关于</a><a href="contact.html">联系</a></div>
 </header>
 
-<section class="stage" data-stage data-phase="1" style="--p0:1;--hp:0.5;--hp2:0.34;--hw:0.54;--hc:0.48;--fp:0;--sp:0;--gs:1;--hold:0;--pop:0;--cross:0;--scrub:0;--depth:0;--ps:0.14;--p:0.14">
+<section class="stage" data-stage data-phase="1" style="--p0:1;--hp:0.5;--hp2:0.34;--hw:0.54;--hc:0.47;--fp:0;--sp:0;--gs:1;--hold:0;--pop:0;--cross:0;--scrub:0;--depth:0;--ps:0.15;--p:0.15">
   <div class="stage-pin">
     <div class="stage-cream" aria-hidden="true"></div>
     <div class="stage-giant" aria-hidden="true"><span class="g1">探索</span><span class="g2">新面料</span></div>

diff --git a/frame-wipe.html b/frame-wipe.html
@@ -3,8 +3,8 @@
 <meta charset="utf-8"/><meta name="viewport" content="width=device-width,initial-scale=1"/>
 <title>Stage frame · wipe</title>
 <link href="https://fonts.googleapis.com/css2?family=Bodoni+Moda:opsz,wght@6..96,400;6..96,500&family=Inter:wght@300;400;500&display=swap" rel="stylesheet"/>
-<link rel="stylesheet" href="css/style.css?v=26"/>
-<link rel="stylesheet" href="css/effects.css?v=26"/>
+<link rel="stylesheet" href="css/style.css?v=27"/>
+<link rel="stylesheet" href="css/effects.css?v=27"/>
 <style>
   body{margin:0;overflow:hidden;background:#F4F2EF}
   .site-header{position:fixed}
@@ -23,7 +23,7 @@
   <div class="header-right"><a href="products.html">Search</a><a href="about.html">关于</a><a href="contact.html">联系</a></div>
 </header>
 
-<section class="stage" data-stage data-phase="1" style="--p0:1;--hp:1;--hp2:1;--hw:1;--hc:1;--fp:0;--sp:0;--gs:1;--hold:1;--pop:0.96;--cross:0;--scrub:0;--depth:0;--ps:0.32;--p:0.32">
+<section class="stage" data-stage data-phase="1" style="--p0:1;--hp:1;--hp2:1;--hw:1;--hc:1;--fp:0;--sp:0;--gs:1;--hold:1;--pop:0.97;--cross:0;--scrub:0;--depth:0;--ps:0.33;--p:0.33">
   <div class="stage-pin">
     <div class="stage-cream" aria-hidden="true"></div>
     <div class="stage-giant" aria-hidden="true"><span class="g1">探索</span><span class="g2">新面料</span></div>

diff --git a/index.html b/index.html
@@ -8,8 +8,8 @@
 <link rel="preconnect" href="https://fonts.googleapis.com" />
 <link rel="preconnect" href="https://fonts.gstatic.com" crossorigin />
 <link href="https://fonts.googleapis.com/css2?family=Bodoni+Moda:opsz,wght@6..96,400;6..96,500;6..96,600&family=Inter:wght@300;400;500&display=swap" rel="stylesheet" />
-<link rel="stylesheet" href="css/style.css?v=26" />
-<link rel="stylesheet" href="css/effects.css?v=26" />
+<link rel="stylesheet" href="css/style.css?v=27" />
+<link rel="stylesheet" href="css/effects.css?v=27" />
 </head>
 <body>
 <a class="side-rail left" href="products.html">色卡目录</a>
@@ -121,5 +121,5 @@
   <div>Yarn-Dyed Lookbook</div>
 </footer>
 <script src="js/main.js?v=17"></script>
-<script src="js/effects.js?v=26"></script>
+<script src="js/effects.js?v=27"></script>
 </body></html>

diff --git a/products.html b/products.html
@@ -8,8 +8,8 @@
 <link rel="preconnect" href="https://fonts.googleapis.com" />
 <link rel="preconnect" href="https://fonts.gstatic.com" crossorigin />
 <link href="https://fonts.googleapis.com/css2?family=Bodoni+Moda:opsz,wght@6..96,400;6..96,500;6..96,600&family=Inter:wght@300;400;500&display=swap" rel="stylesheet" />
-<link rel="stylesheet" href="css/style.css?v=26" />
-<link rel="stylesheet" href="css/effects.css?v=26" />
+<link rel="stylesheet" href="css/style.css?v=27" />
+<link rel="stylesheet" href="css/effects.css?v=27" />
 </head>
 <body>
 <a class="side-rail left" href="products.html">色卡目录</a>
@@ -213,5 +213,5 @@
   <div>Yarn-Dyed Lookbook</div>
 </footer>
 <script src="js/main.js?v=17"></script>
-<script src="js/effects.js?v=26"></script>
+<script src="js/effects.js?v=27"></script>
 </body></html>

diff --git a/about.html b/about.html
@@ -8,8 +8,8 @@
 <link rel="preconnect" href="https://fonts.googleapis.com" />
 <link rel="preconnect" href="https://fonts.gstatic.com" crossorigin />
 <link href="https://fonts.googleapis.com/css2?family=Bodoni+Moda:opsz,wght@6..96,400;6..96,500;6..96,600&family=Inter:wght@300;400;500&display=swap" rel="stylesheet" />
-<link rel="stylesheet" href="css/style.css?v=26" />
-<link rel="stylesheet" href="css/effects.css?v=26" />
+<link rel="stylesheet" href="css/style.css?v=27" />
+<link rel="stylesheet" href="css/effects.css?v=27" />
 </head>
 <body>
 <a class="side-rail left" href="products.html">色卡目录</a>
@@ -68,5 +68,5 @@
   <div>Yarn-Dyed Lookbook</div>
 </footer>
 <script src="js/main.js?v=17"></script>
-<script src="js/effects.js?v=26"></script>
+<script src="js/effects.js?v=27"></script>
 </body></html>

diff --git a/contact.html b/contact.html
@@ -8,8 +8,8 @@
 <link rel="preconnect" href="https://fonts.googleapis.com" />
 <link rel="preconnect" href="https://fonts.gstatic.com" crossorigin />
 <link href="https://fonts.googleapis.com/css2?family=Bodoni+Moda:opsz,wght@6..96,400;6..96,500;6..96,600&family=Inter:wght@300;400;500&display=swap" rel="stylesheet" />
-<link rel="stylesheet" href="css/style.css?v=26" />
-<link rel="stylesheet" href="css/effects.css?v=26" />
+<link rel="stylesheet" href="css/style.css?v=27" />
+<link rel="stylesheet" href="css/effects.css?v=27" />
 </head>
 <body>
 <a class="side-rail left" href="products.html">色卡目录</a>
@@ -72,5 +72,5 @@
   <div>Yarn-Dyed Lookbook</div>
 </footer>
 <script src="js/main.js?v=17"></script>
-<script src="js/effects.js?v=26"></script>
+<script src="js/effects.js?v=27"></script>
 </body></html>

diff --git a/frame-hero.html b/frame-hero.html
@@ -3,8 +3,8 @@
 <meta charset="utf-8"/><meta name="viewport" content="width=device-width,initial-scale=1"/>
 <title>Stage frame · hero</title>
 <link href="https://fonts.googleapis.com/css2?family=Bodoni+Moda:opsz,wght@6..96,400;6..96,500&family=Inter:wght@300;400;500&display=swap" rel="stylesheet"/>
-<link rel="stylesheet" href="css/style.css?v=26"/>
-<link rel="stylesheet" href="css/effects.css?v=26"/>
+<link rel="stylesheet" href="css/style.css?v=27"/>
+<link rel="stylesheet" href="css/effects.css?v=27"/>
 <style>
   body{margin:0;overflow:hidden;background:#F4F2EF}
   .site-header{position:fixed}

diff --git a/DESIGN-NOTES.md b/DESIGN-NOTES.md
@@ -3,12 +3,12 @@
 Reference: https://etrotextiles.etro.com/ (public pages only).
 Original CSS/JS + licensed fabric photos. No Etro assets/logos/fonts/code.
 
-| Etro effect | Henglong polish (v26 stage) |
+| Etro effect | Henglong polish (v27 stage) |
 |---|---|
-| Pinned full-screen stage | Sticky 100svh/lvh pin ~2680vh; locked |
-| Hero wipe | `--hw` peel + lagging `--hc` cream layer; 195° curtain |
-| Giant DISCOVER headline | Longer hold; denser ink; stronger pop/cross |
-| Tilted cards crossing type | Stronger punch scale; lighter scrub blur/skew |
-| Smooth scrub | Soft critical ω≈1.4/1.05 + longer coast |
+| Pinned full-screen stage | Sticky 100svh/lvh pin ~2800vh; locked |
+| Hero wipe | `--hw`/`--hc` layered curtain; 196° soft feather |
+| Giant DISCOVER headline | Cross-reactive text-shadow; longer hold; denser ink |
+| Tilted cards crossing type | Taller punch corridor; earlier entry |
+| Smooth scrub | Soft critical ω≈1.3/0.95 + longer coast |
 
 QA: `frame-hero|midwipe|wipe|peek|cards.html`
